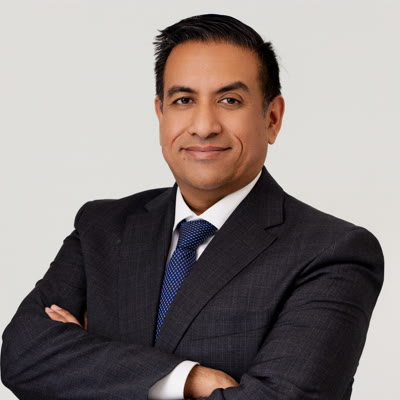
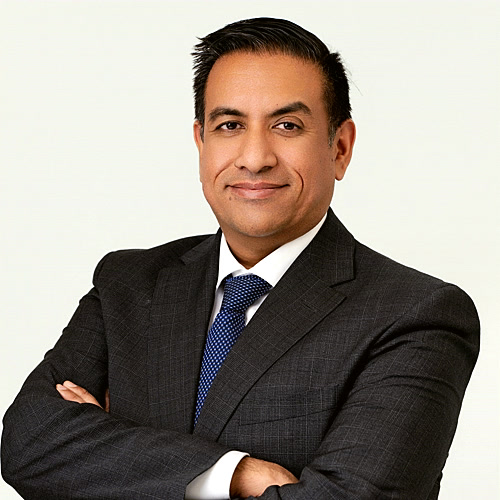
Enhance headshot: sharpen, contrast, saturation, warmth; display larger
- Unsharp mask for crispness
- +12% contrast, +15% saturation, warm color balance
- Display size 180px → 220px with subtle shadow
- Export at 500px for retina sharpness

diff --git a/style.css b/style.css
@@ -33,11 +33,12 @@ a:hover { color: #0d4f6b; }
 }
 
 .ppic {
-  width: 180px;
-  height: 180px;
+  width: 220px;
+  height: 220px;
   border-radius: 50%;
   object-fit: cover;
   border: 3px solid #e8e8e8;
+  box-shadow: 0 2px 12px rgba(0,0,0,0.08);
 }
 
 #intro h1 {
